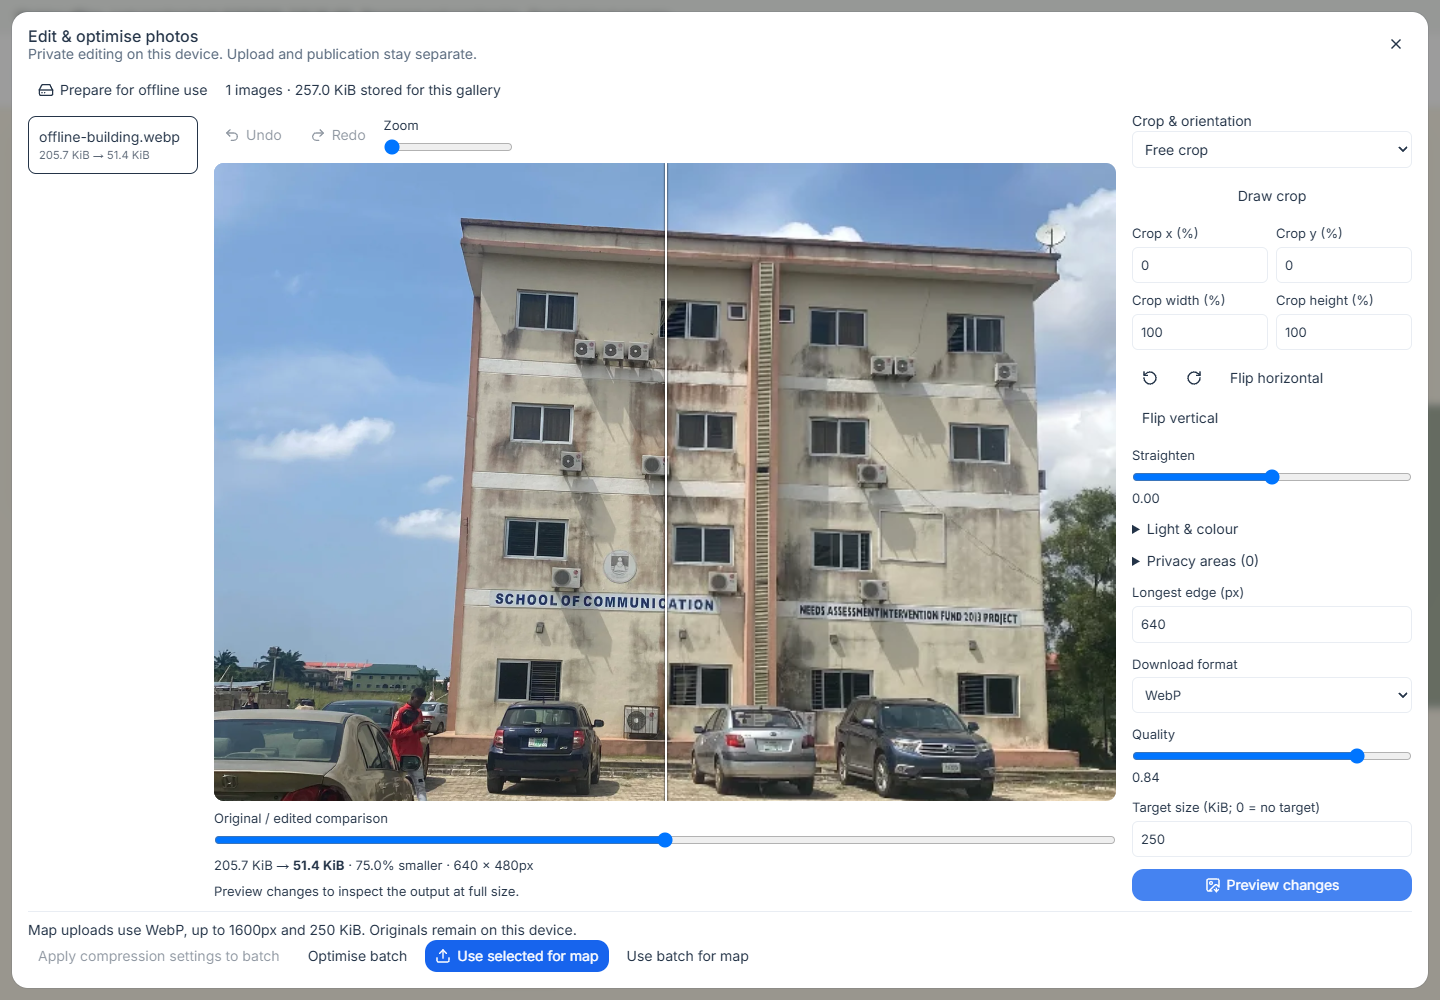
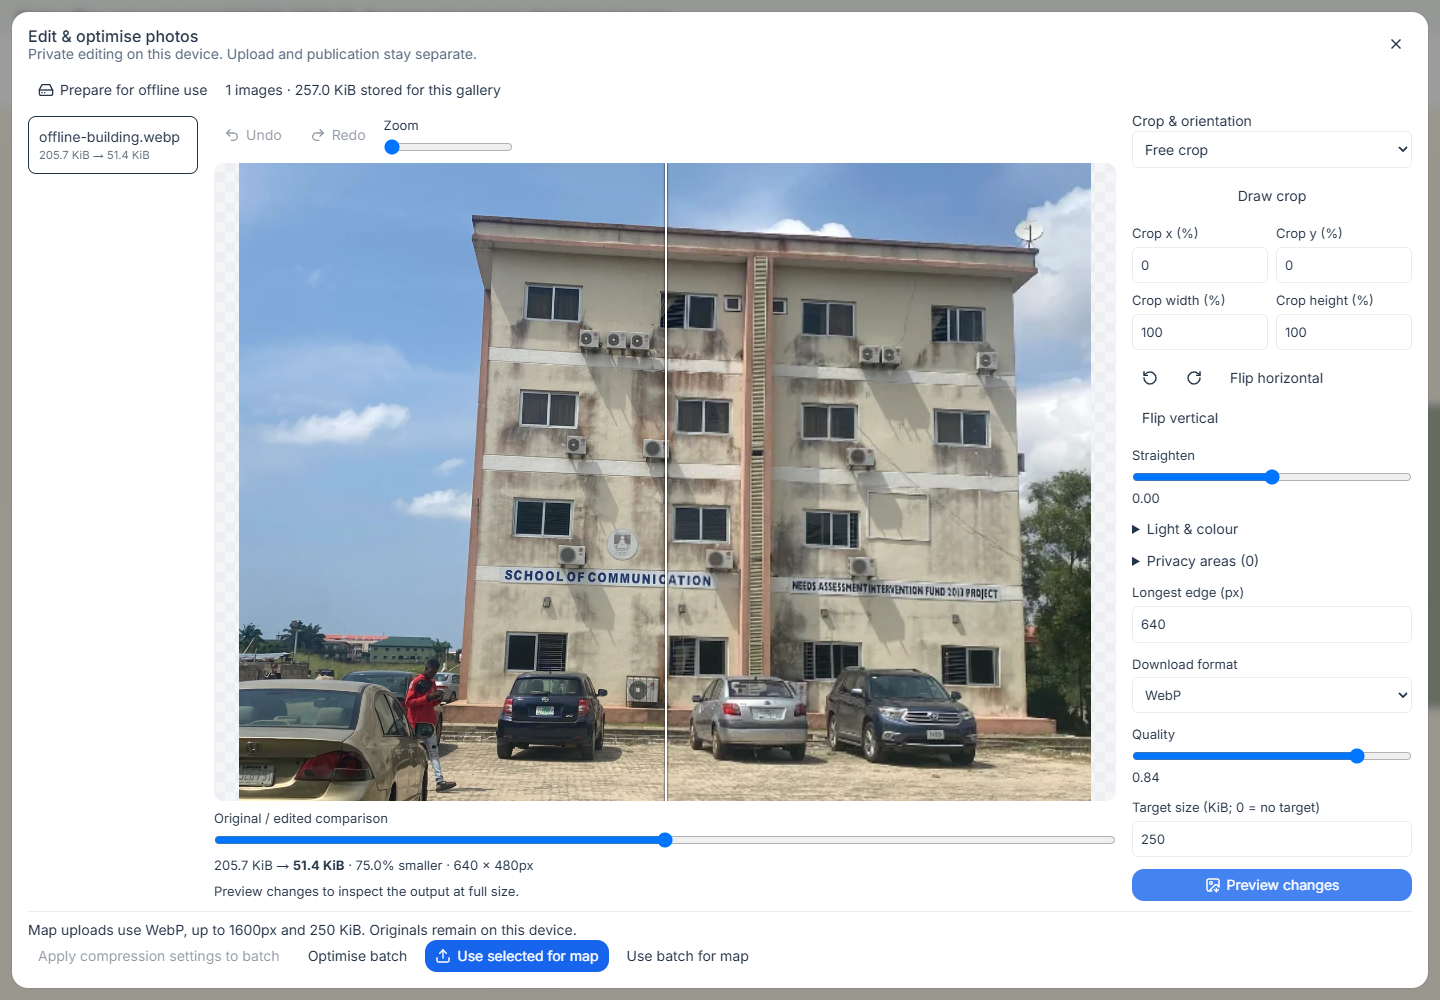
fix(photos): retain source modification notes and verify offline queue reload

Changed region(s): [[0.125, 0.155, 0.7812, 0.806], [0.25, 0.341, 0.2812, 0.372]]

diff --git a/web/src/PhotoOptimizer.tsx b/web/src/PhotoOptimizer.tsx
@@ -223,6 +223,7 @@ export default function PhotoOptimizer({
             recipe: defaultPhotoRecipe(),
             original: request.original || request.photo,
             metadata: request.photo,
+            sourceModifications: request.photo.modifications,
             updated: Date.now(),
           });
           setNotice(
@@ -253,6 +254,7 @@ export default function PhotoOptimizer({
             source: file,
             recipe: defaultPhotoRecipe(),
             metadata: request.metadata || {},
+            sourceModifications: request.metadata?.modifications,
             updated: Date.now(),
           });
         }
@@ -365,7 +367,12 @@ export default function PhotoOptimizer({
           height: out.height,
           metadata: {
             ...p.metadata,
-            modifications: photoModifications(recipe),
+            modifications: [
+              p.sourceModifications ?? p.original?.modifications,
+              photoModifications(recipe),
+            ]
+              .filter(Boolean)
+              .join('; '),
           },
         };
         await saveLocalPhoto(owner, next);

diff --git a/web/tests/browser/editor.spec.ts b/web/tests/browser/editor.spec.ts
@@ -8964,5 +8964,14 @@ test('prepared offline image tools reload originals and recipes and queue withou
     .click();
   await expect(editor).toHaveCount(0);
   await expect(gallery.getByText('queued', { exact: true })).toBeVisible();
+  await gallery.getByRole('button', { name: 'Close', exact: true }).click();
+  await page.reload();
+  await attachMap(page);
+  await focusCampus(page);
+  if (await collapse.isVisible()) await collapse.click();
+  await clickMap(page, [3.20012, 6.46022]);
+  await page.getByRole('button', { name: /Manage photos/ }).click();
+  await gallery.getByRole('button', { name: /Review uploads/ }).click();
+  await expect(gallery.getByText('queued', { exact: true })).toBeVisible();
   expect(uploads).toBe(0);
 });

diff --git a/web/src/photo-local.ts b/web/src/photo-local.ts
@@ -15,6 +15,7 @@ export interface LocalPhoto {
   original?: CampusPhoto;
   metadata: Partial<CampusPhoto>;
   photoId?: string;
+  sourceModifications?: string;
   updated: number;
 }
 const connection = () =>
